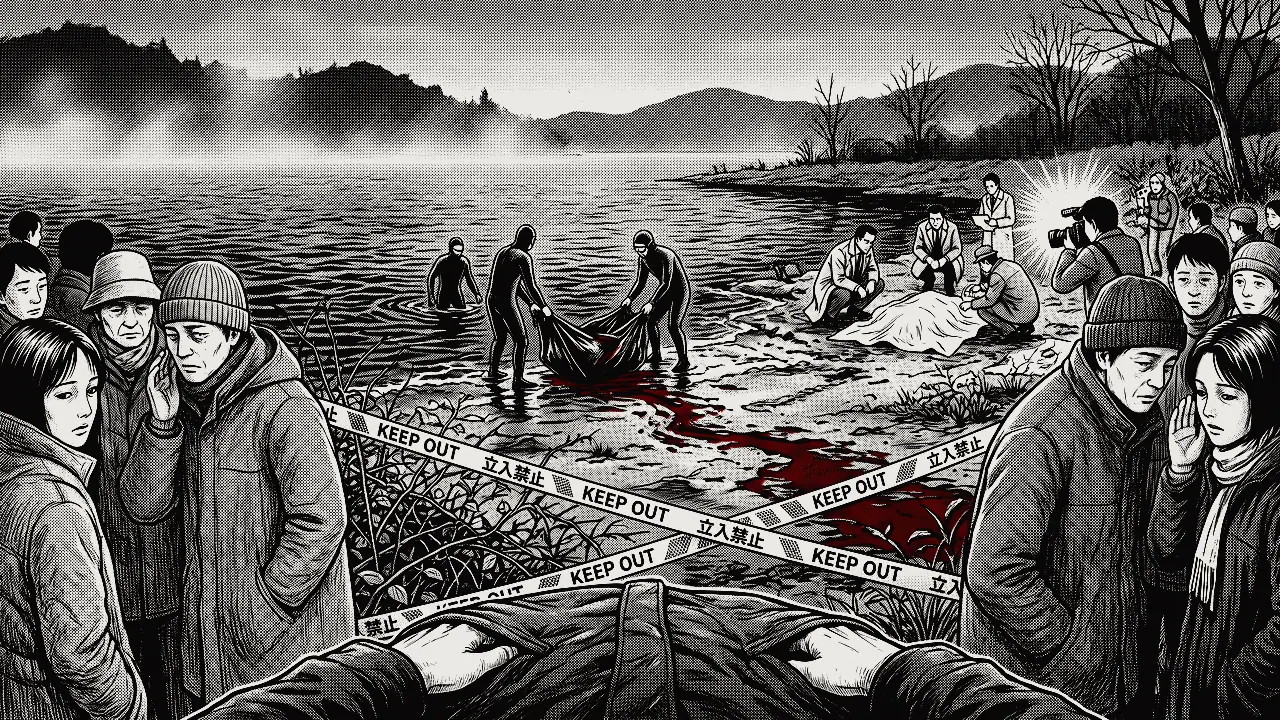
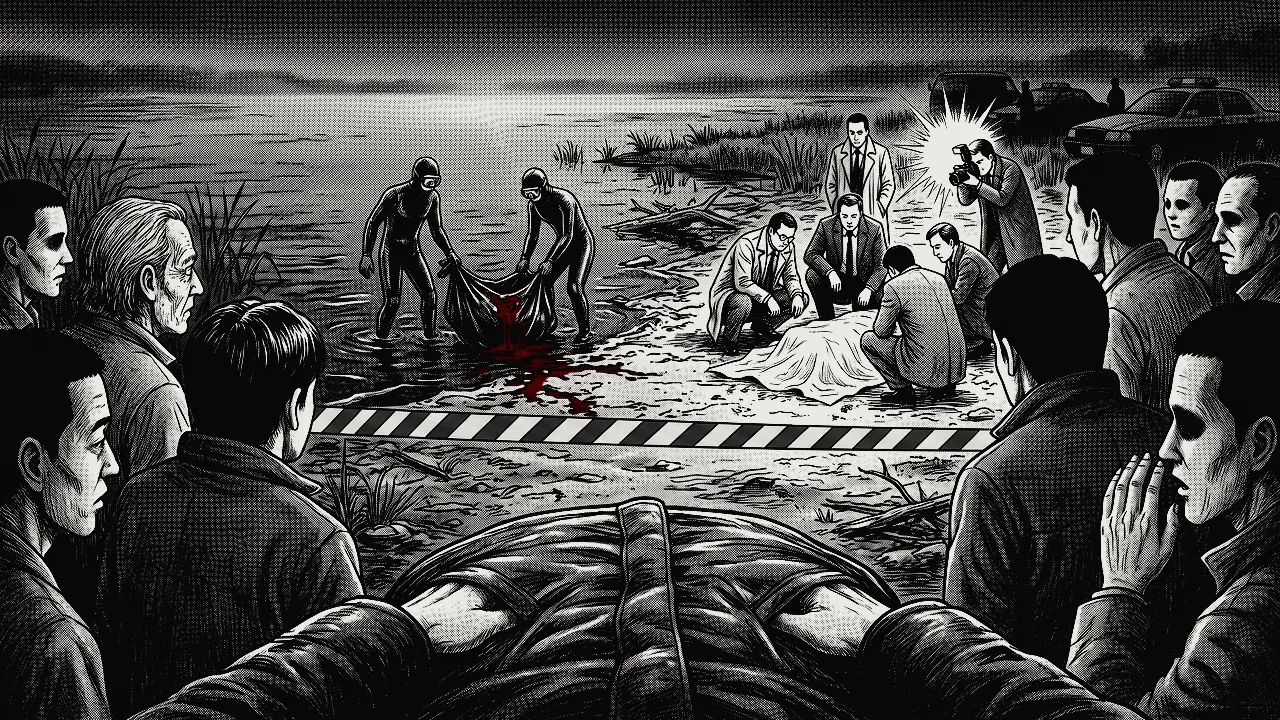
killer-1in8b: 시신 발견 장면 다시 그림(글자 없는 폴리스 라인) · 휴대폰 계속 안내 · 메뉴 배경

diff --git a/killer-1in8b/css/style.css b/killer-1in8b/css/style.css
@@ -186,7 +186,7 @@ svg.defs{position:absolute;width:0;height:0}
 #nextcue.on{opacity:1;animation:bob 1s infinite}
 @keyframes bob{50%{translate:0 6px}}
 
-#sys{position:absolute;right:28px;top:14px;z-index:99;font-size:13px;color:#4d4943;letter-spacing:.15em;display:flex;gap:18px}
+#sys{position:absolute;right:20px;top:10px;z-index:99;font-size:13px;color:#8a857b;letter-spacing:.15em;display:flex;gap:18px;background:rgba(0,0,0,.6);padding:6px 12px}
 #sys span{cursor:pointer}
 #sys span:hover{color:var(--paper)}
 #mute.off{text-decoration:line-through}

diff --git a/killer-1in8b/sw.js b/killer-1in8b/sw.js
@@ -1,5 +1,5 @@
 // cache-first for pictures and sounds, network-first for code; bump VER when assets change
-const VER = 'k8b-1';
+const VER = 'k8b-2';
 self.addEventListener('install', e => self.skipWaiting());
 self.addEventListener('activate', e => e.waitUntil(
   caches.keys().then(ks => Promise.all(ks.filter(k => k !== VER).map(k => caches.delete(k)))).then(() => self.clients.claim())
